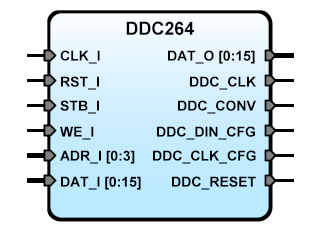
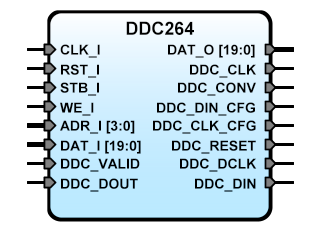
DDC264 Updated to version 2.2 Changed the order in the control bits Updated snippets

Changed region(s): [[0.4688, 0.181, 0.9375, 0.8448], [0.0625, 0.181, 0.4375, 0.8448]]

diff --git a/DDC264/readme.md b/DDC264/readme.md
@@ -2,36 +2,34 @@
 - - -
 ![](image.png)
 
-**Version**: 2.1
-**Date**: 2025/11/07
-**Author**: Miguel A. Risco-Castillo
+**Version**: 2.2  
+**Date**: 2025/11/07  
+**Author**: Miguel A. Risco-Castillo  
 
-**sba webpage**: http://sba.accesus.com
-**core webpage**: https://github.com/mriscoc/SBA-Library/tree/master/DDC264
-**DDC264 datasheet**: https://www.ti.com/lit/ds/symlink/ddc264.pdf
+**sba webpage**: http://sba.accesus.com  
+**core webpage**: https://github.com/mriscoc/SBA-Library/tree/master/DDC264  
+**DDC264 datasheet**: https://www.ti.com/lit/ds/symlink/ddc264.pdf  
 
-**Description**: Preliminary version of SBA Slave IP Core adapter for the DDC264
-The minimum data bus width is 20 bits.
-The Register Select uses the four least significant bits of the address bus.
+**Description**: Preliminary version of SBA Slave IP Core adapter for the DDC264  
+The minimum data bus width is 20 bits.  
+The Register Select uses the four least significant bits of the address bus.  
 
-* Write:
-**0000 x"0"**: Control register
-  bit(0) <- start to shift configuration word to DDC_DIN_CFG
-  bit(1) <- set/reset DDC_CONV
-  bit(2) <- start to read data registers from DDC_DOUT
-
-**0001 x"1"** : Configuration Word
+* Write:  
+**0000 x"0"**: Control register  
+  bit(0) <- start to shift configuration word to DDC_DIN_CFG  
+  bit(1) <- start to read data registers from DDC_DOUT  
+  bit(8) <- set/reset DDC_CONV  
+**0001 x"1"** : Configuration Word  
 **0010 x"2"** : bit(5..0) <- Select data register to read (0 to 63)
-
-* Read:
-**0000 x"0"** : Status register (FSMs state, DVALID, Data Ready, etc.)
-  bit(15..12) <- Configuration FSM state (0:POWER_UP, 1:IDLE, 2:RESET_PULSE, 3:WAIT_WTRST, 4:PREPARE_CFG, 5:SHIFT_CFG, 6:WAIT_WTWR)
-  bit(11..8)  <- Read FSM state (0:IDLE, 1:START_SQNC, 2:SHIFT_READ, 3:END_SQNC)
-  bit(7)      <- Data ready flag (1: all 64 data registers have been read, 0: not ready)
-  bit(6)      <- DDC_DVALID signal (0: valid data available (active low), 1: data not valid)
-  bit(5..0)   <- Reserved (always 0)
-**0001 x"1"** : Read back configuration word
-**0010 x"2"** : Read data register selected previously
+* Read:  
+**0000 x"0"** : Status register (FSMs state, DVALID, Data Ready, etc.)  
+  bit(15..12) <- Configuration FSM state (0:POWER_UP, 1:IDLE, 2:RESET_PULSE, 3:WAIT_WTRST, 4:PREPARE_CFG, 5:SHIFT_CFG, 6:WAIT_WTWR)  
+  bit(11..8)  <- Read FSM state (0:IDLE, 1:START_SQNC, 2:SHIFT_READ, 3:END_SQNC)  
+  bit(7)      <- Data ready flag (1: all 64 data registers have been read, 0: not ready)  
+  bit(6)      <- DDC_DVALID signal (0: valid data available (active low), 1: data not valid)  
+  bit(5..0)   <- Reserved (always 0)  
+**0001 x"1"** : Read back configuration word  
+**0010 x"2"** : Read data register selected previously  
 
 
 ```vhdl
@@ -70,46 +68,54 @@ end DDC264;
 
 Variables:
 ```vhdl
-   variable DDC264_Config_World : unsigned(15 downto 0); -- DDC264 configuration word
+   variable DDC264_Config_World : unsigned(15 downto 0) := x"0000"; -- DDC264 configuration word
+   variable DDC264_CTRL_bits    : unsigned(15 downto 0) := x"0000"; -- Current value of the Control register
 ```
 Routines:
 
 ```vhdl
--- /L:DDC264_waitIDLE
-=> SBAread(DDC264_CTRL);             -- Read DDC264 Status
--- /L:DDC264_waitIDLE_loop
-=> if dati /= x"0001" then           -- Is status /= IDLE ?
-     SBAjump(DDC264_waitIDLE_loop);         -- try again
-   else
-     SBAret;
-   end if;
-
--- /L:DDC264_waitWTWR
-=> SBAread(DDC264_CTRL);             -- Read DDC264 Status
--- /L:DDC264_waitWTWR_loop
-=> if dati /= x"0006" then           -- Is status /= WAIT_WTWR ?
-     SBAjump(DDC264_waitWTWR_loop);         -- try again
+-- /L:DDC264_waitCFGIDLE
+=> SBAread(DDC264_CTRL);                -- Read DDC264 Status
+-- /L:DDC264_waitCFGIDLE_loop
+=> if dati(15 downto 12) /= x"1" then   -- Is status /= IDLE ?
+     SBAjump(DDC264_waitCFGIDLE_loop);  -- try again
    else
      SBAret;
    end if;
 
 -- /L:DDC264_sendConfig
 => SBAwrite(DDC264_CFGW, DDC264_Config_World);   -- Write Configuration word
-=> SBAwrite(DDC264_CTRL, x"1");      -- Start configuration
+=> SBAwrite(DDC264_CTRL, DDC264_CTRL_bits or x"0001"); -- Set start_config_cmd
 => SBAret;
+
+-- /L:DDC264_startRead
+=> SBAwrite(DDC264_CTRL, DDC264_CTRL_bits or x"0002"); -- Set start_read_cmd
+=> SBAret;
+
+-- /L:DDC264_waitDATARDY
+=> SBAread(DDC264_CTRL);             -- Read DDC264 Status
+-- /L:DDC264_waitDATARDY_loop
+=> if dati(7) /= '1' then            -- Is status_data_rdy /= 1 ?
+     SBAjump(DDC264_waitDATARDY_loop);         -- try again
+   else
+     SBAret;
+   end if;  
 ```
 Example of usage:
 ```vhdl
-=> SBAcall(DDC264_waitWTWR);
+SBAcall(DDC264_waitCFGIDLE);
 
-=> SBAcall(DDC264_waitIDLE);
+DDC264_Config_World := x"ABCD";
+SBAcall(DDC264_sendConfig);
 
-=> DDC264_Config_World := x"ABCD";
-   SBAcall(DDC264_sendConfig);
+SBAcall(DDC264_waitCFGIDLE);      -- Wait for IDLE after configuration
 
-   report "Set CONV to 1";
-=> SBAwrite(DDC264_CTRL, x"2");      -- Set CONV to '1'
+DDC264_CTRL_bits(8) := '1';       -- Set CONV to '1'
+SBAwrite(DDC264_CTRL, DDC264_CTRL_bits);
 
-   report "Reset CONV to 0";
-=> SBAwrite(DDC264_CTRL, x"0");      -- Reset CONV to '0'
+DDC264_CTRL_bits(8) := '0';       -- Set CONV to '0'
+SBAwrite(DDC264_CTRL, DDC264_CTRL_bits);
+
+SBAcall(DDC264_startDataRead);
+SBAcall(DDC264_waitDATARDY); 
 ```
